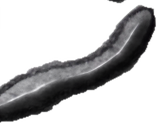
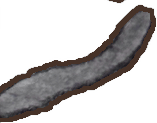
Kızın çizimleri de düz tarzda: kabartma yerine kalem çizgisi ve gölge şeridi
Claude-Session: https://claude.ai/code/session_01PHNWoZMbn2UdDSkHwUUY5E

Changed region(s): [[0.0, 0.0244, 0.9936, 1.0], [0.6879, 0.0, 0.7898, 0.0244]]

diff --git a/araclar/uret.py b/araclar/uret.py
@@ -3,7 +3,7 @@
 Kullanım: python3 araclar/uret.py
 Girdi: cizimler/<ad>.png (kızın temizlenmiş çizimleri).
 Çıktı:
-  cizimler/hacimli/<karakter>.png  ışık verilmiş karakterler (parcala.py bunları böler)
+  cizimler/hacimli/<karakter>.png  düz tarza uydurulmuş karakterler: kalem çizgisi ve gölge şeridi (parcala.py bunları böler)
   cizimler/esya/<ad>.png           taşınan eşyalar
   cizimler/mekan/<ad>.png          oda, mutfak ve banyo arka planları
 """
@@ -15,7 +15,7 @@ import numpy as np
 from PIL import Image, ImageDraw, ImageFilter
 
 sys.path.insert(0, os.path.dirname(__file__))
-from hacim import hacim  # noqa: E402
+from hacim import hacim  # noqa: E402,F401  (araclar/hacim.py elle de kullanılabilir)
 
 KOK = os.path.join(os.path.dirname(__file__), "..")
 CIZ = os.path.join(KOK, "cizimler")
@@ -39,7 +39,7 @@ def koy(alt, ust, x, y):
 
 # --- Düz çizgi film gölgesi ---
 # Her şeklin sağ alt kenarı boyunca keskin, biraz koyu bir şerit olur. Parlama ve geçiş yoktur.
-# Kızın çizimleri bu stili kullanmaz: onlara hacim() ışığı verilir.
+# Kızın çizimleri duz_cizim() ile aynı tarza uydurulur: kenarına kalem çizgisi çekilir.
 def duz(L, kure=False, guc=1.0):
     a = np.array(L).astype(np.float32)
     al = a[..., 3] > 128
@@ -65,6 +65,25 @@ def duz(L, kure=False, guc=1.0):
         p.putalpha(Image.fromarray(np.minimum(np.array(p)[..., 3], al.astype(np.uint8) * 255)))
         im.alpha_composite(p)
     return im
+
+
+def duz_cizim(im):
+    """Kızın çizimini düz tarza uydurur: renkler biraz canlanır, kenarına koyu kalem çizgisi
+    çekilir, sağ altta gölge şeridi olur. Resmin boyu değişmez (parcala.py aynı koordinatları kullanır)."""
+    import cv2
+    from PIL import ImageEnhance
+    im = im.convert("RGBA")
+    rgb = ImageEnhance.Contrast(ImageEnhance.Color(im.convert("RGB")).enhance(1.3)).enhance(1.1)
+    a = np.array(rgb.convert("RGBA"))
+    al = np.array(im)[..., 3]
+    a[..., 3] = al
+    ic = (al > 128).astype(np.uint8)
+    k = max(3, int(max(im.size) * 0.007))
+    oz = cv2.erode(ic, np.ones((2 * k + 1, 2 * k + 1), np.uint8))
+    halka = (ic > 0) & (oz == 0)
+    a[halka, :3] = KALEM[:3]
+    a[halka, 3] = 255
+    return duz(Image.fromarray(a, "RGBA"), guc=0.4)
 
 
 # --- Tuval: düz şekiller çizer. Her şekil düz renklidir, kalın kalem çizgisi ve sağ altta gölge şeridi vardır. ---
@@ -778,7 +797,7 @@ def main():
     os.makedirs(yol("mekan"), exist_ok=True)
     ciz = {}
     for ad in ["kedi", "kiz", "ayi", "top", "telefon", "kitap", "tahin", "somine", "tv", "gokkusagi", "ev"]:
-        ciz[ad] = hacim(Image.open(yol(ad + ".png")), kure=(ad == "top"))
+        ciz[ad] = duz_cizim(Image.open(yol(ad + ".png")))
     for ad in ["kedi", "kiz", "ayi"]:
         ciz[ad].save(yol("hacimli", ad + ".png"))
     for ad in ["top", "telefon", "kitap", "tahin"]:

diff --git a/README.md b/README.md
@@ -34,7 +34,7 @@ Toplam 20 sahne: harita ve 19 mekan. Evlerin odaları kendi evine bağlıdır (`
 Program çizimleri düz çizgi film tarzındadır: düz renk, koyu kalem çizgisi, sağ altta keskin bir gölge şeridi.
 Parlama ve renk geçişi yoktur. Ağaç, çalı ve bulutlar dairelerin birleşimiyle tek çizgili çizilir.
 Ortak çizim aracı `araclar/uret.py` içindeki `Tuval` ve `duz()` gölgesidir.
-Kızın çizimleri (karakterler, TV, şömine, gökkuşağı) kendi halini korur.
+Kızın çizimleri (karakterler, TV, şömine, gökkuşağı) de düz tarza uydurulur: renkleri biraz canlanır, kenarına kalem çizgisi çekilir.
 Bütün resimleri yeniden üretmek için: `uret.py`, `dunya.py`, `yerler.py` ve `ekler.py` sırayla çalıştırılır.
 
 ## Dosyalar
